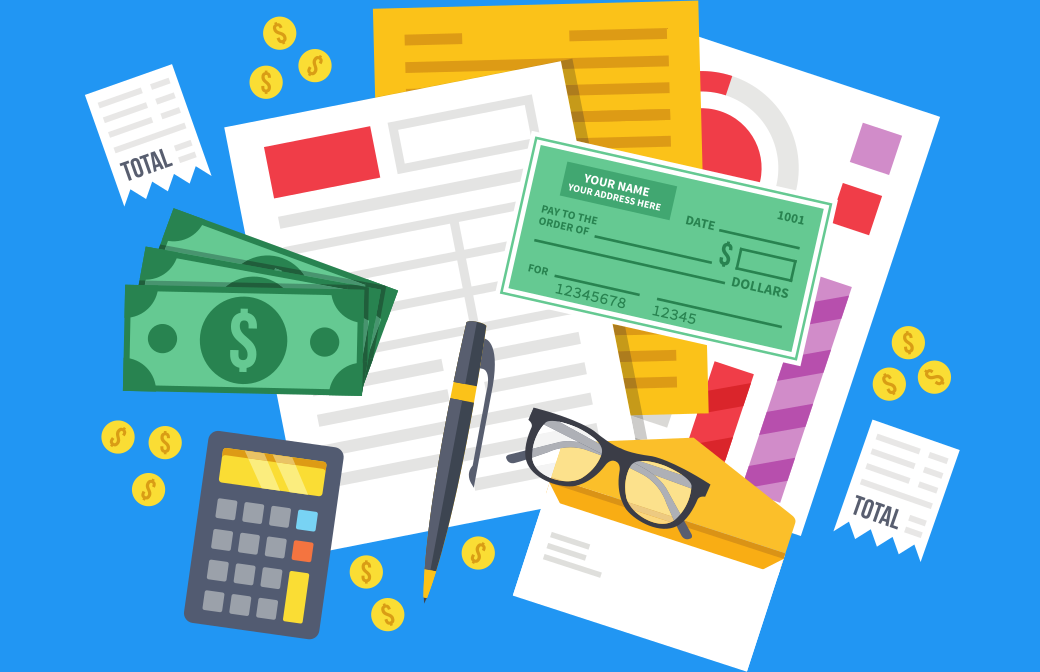
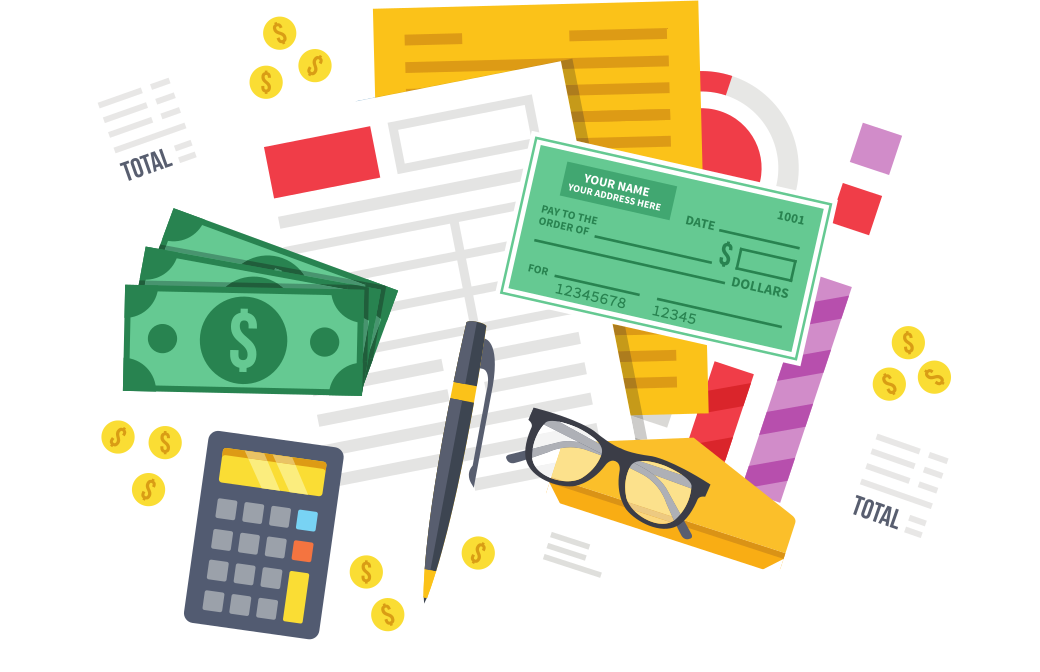
Improved landing page [skip ci]

diff --git a/resources/assets/sass/_layout-home.scss b/resources/assets/sass/_layout-home.scss
@@ -1,27 +1,18 @@
 .layout-home {
-  background: theme-color('primary') url(../images/bg.png) no-repeat center top -250px;
-  background-size: 800px;
-  color: #f8f8f8;
 
   header {
-    color: #f8f8f8;
-
-    .nav-link {
-      color: rgba($white, .8) !important;
-
-      &:hover {
-        color: $white !important;
-      }
-    }
+    background: $gray-100 url(../images/bg.png) no-repeat center top -250px;
+    background-size: 800px;
+    border-top: 5px solid theme-color('primary');
   }
 
   .intro-message {
-    padding-top: 15rem;
-    @extend .mb-5;
+    padding-top: 14rem;
+    @extend .pb-4;
     text-align: center;
 
     h1, .lead {
-      text-shadow: 0 1px 2px rgba(0, 0, 0, .2);
+      text-shadow: 0 1px 2px rgba(0, 0, 0, .1);
     }
 
     h1 {
@@ -36,48 +27,25 @@
       text-transform: uppercase;
       letter-spacing: 1.4px;
       font-weight: bold;
-
-      &-outline-light {
-        border-color: rgba(255, 255, 255, .5);
-        background-color: theme-color('primary');
-
-        &:hover {
-          border-color: rgba(255, 255, 255, .8);
-          background-color: lighten(theme-color('primary'), 10%);
-          color: white;
-        }
-      }
-    }
-  }
-
-  $footer-color-highlight: #f8f8f8;
-  $footer-color: rgba($footer-color-highlight, .6);
-
-  footer {
-    color: $footer-color;
-
-    a {
-      color: $footer-color;
-
-      &:hover {
-        color: $footer-color-highlight;
-        text-decoration: none;
-      }
     }
 
   }
 
   @include media-breakpoint-down(sm) {
 
-    background-size: 700px;
-    background-position: center top -225px;
+    header {
+      background-size: 700px;
+      background-position: center top -225px;
+      background-color: $gray-50;
 
-    header nav {
-      background: rgba(theme-color('secondary'), .95);
+      .navbar {
+        background: $gray-100;
+        box-shadow: 0 1px 3px rgba(0, 0, 0, 0.12), 0 1px 2px rgba(0, 0, 0, 0.24);
+      }
     }
 
     .intro-message {
-      padding-top: 200px;
+      padding-top: 180px;
 
       h1 {
         font-size: 2em;

diff --git a/resources/assets/sass/_layout-general.scss b/resources/assets/sass/_layout-general.scss
@@ -1,21 +1,7 @@
 .layout-general {
 
   .navbar {
-    border-top: 3px solid theme-color('primary');
-  }
-
-  footer {
-    color: $text-muted;
-
-    a {
-      color: $text-muted;
-
-      &:hover {
-        color: $body-color;
-        text-decoration: none;
-      }
-    }
-
+    border-top: 5px solid theme-color('primary');
   }
 
   .pagination {

diff --git a/resources/assets/sass/_sticky-footer.scss b/resources/assets/sass/_sticky-footer.scss
@@ -10,6 +10,8 @@ body {
 }
 
 footer {
+
+  color: $text-muted;
   @extend .small;
 
   position: absolute;
@@ -41,4 +43,14 @@ footer {
   .copyright {
     margin: 0;
   }
+
+  a {
+    color: $text-muted;
+
+    &:hover {
+      color: $body-color;
+      text-decoration: none;
+    }
+  }
+
 }

diff --git a/resources/assets/sass/_variables.scss b/resources/assets/sass/_variables.scss
@@ -53,7 +53,6 @@ $container-max-widths: (
 }
 
 .shadow-1 {
-  font-family: inherit;
   box-shadow: 0 1px 3px rgba(0, 0, 0, 0.12), 0 1px 2px rgba(0, 0, 0, 0.24);
 }
 

diff --git a/resources/views/welcome.blade.php b/resources/views/welcome.blade.php
@@ -7,9 +7,9 @@
 @section('body')
 
     <header>
-        <nav class="navbar navbar-expand navbar-dark">
+        <nav class="navbar navbar-expand navbar-light">
             <div class="container">
-                <a class="navbar-brand logo logo-white" href="/">
+                <a class="navbar-brand logo" href="/">
                     {{ config('app.name') }}
                 </a>
 
@@ -20,20 +20,20 @@
                 </ul>
             </div>
         </nav>
-    </header>
 
-    <div class="container">
-        <div class="intro-message">
-            <h1>{{ trans('static.home.heading') }}</h1>
-            <p class="lead">{{ trans('static.home.lead') }}</p>
+        <div class="container">
+            <div class="intro-message">
+                <h1>{{ trans('static.home.heading') }}</h1>
+                <p class="lead">{{ trans('static.home.lead') }}</p>
 
-            <a href="{{ route('register') }}" class="btn btn-lg btn-outline-light m-2">
-                {{ trans('static.home.cta') }}
-            </a>
+                <a href="{{ route('register') }}" class="btn btn-lg btn-primary m-2">
+                    {{ trans('static.home.cta') }}
+                </a>
 
-            <p class="m-0"><em class="small">{{ trans('static.home.free') }}</em></p>
+                <p class="m-0"><em class="small">{{ trans('static.home.free') }}</em></p>
+            </div>
         </div>
-    </div>
+    </header>
 
     @include('helpers.footer')
 

diff --git a/resources/lang/de/static.php b/resources/lang/de/static.php
@@ -2,10 +2,10 @@
 
 return [
     'home' => [
-        'title' => 'Persönliche Budget App',
+        'title' => 'Kostenlose Haushaltsbuch App',
         'heading' => 'Ein Budget haben ist einfach!',
         'lead' => 'Werde schuldenfrei und spare Geld.',
-        'cta' => 'Erstelle jetzt ein Budget',
+        'cta' => 'Jetzt Registrieren',
         'free' => 'Komplett kostenlos!'
     ],
 

diff --git a/resources/lang/en/static.php b/resources/lang/en/static.php
@@ -2,10 +2,10 @@
 
 return [
     'home' => [
-        'title' => 'Personal Budget App',
+        'title' => 'Free Budget App',
         'heading' => 'Keeping a Budget is easy!',
         'lead' => 'Get out of dept and save money.',
-        'cta' => 'Start your Budget now',
+        'cta' => 'Sign up now',
         'free' => 'It\'s completely free!'
     ],
 
